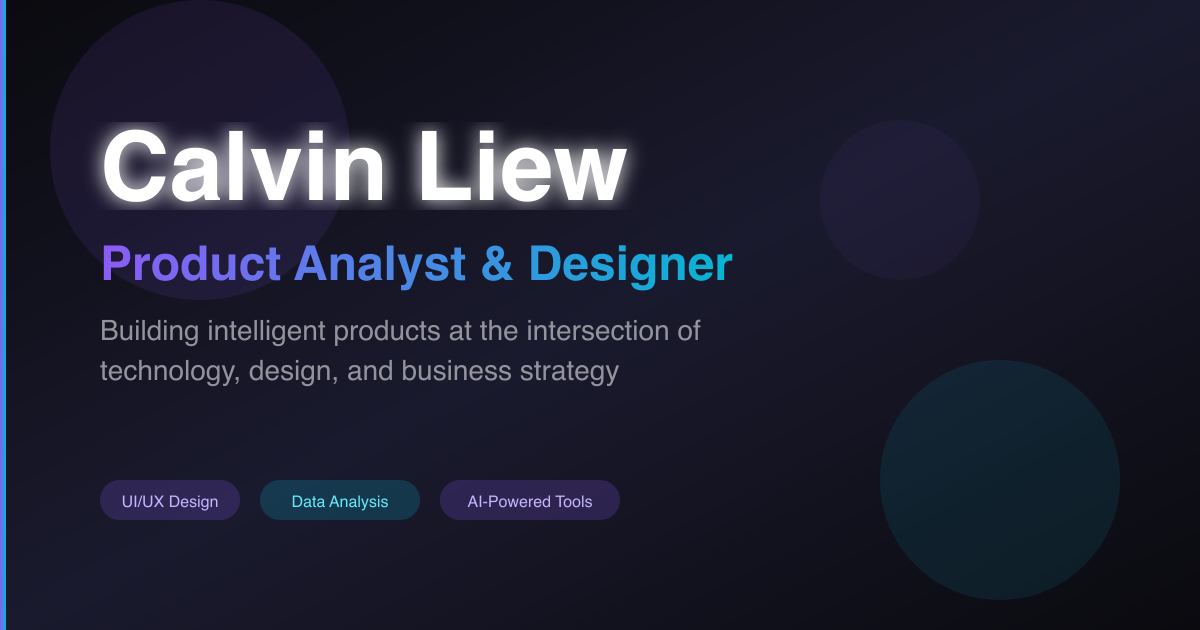
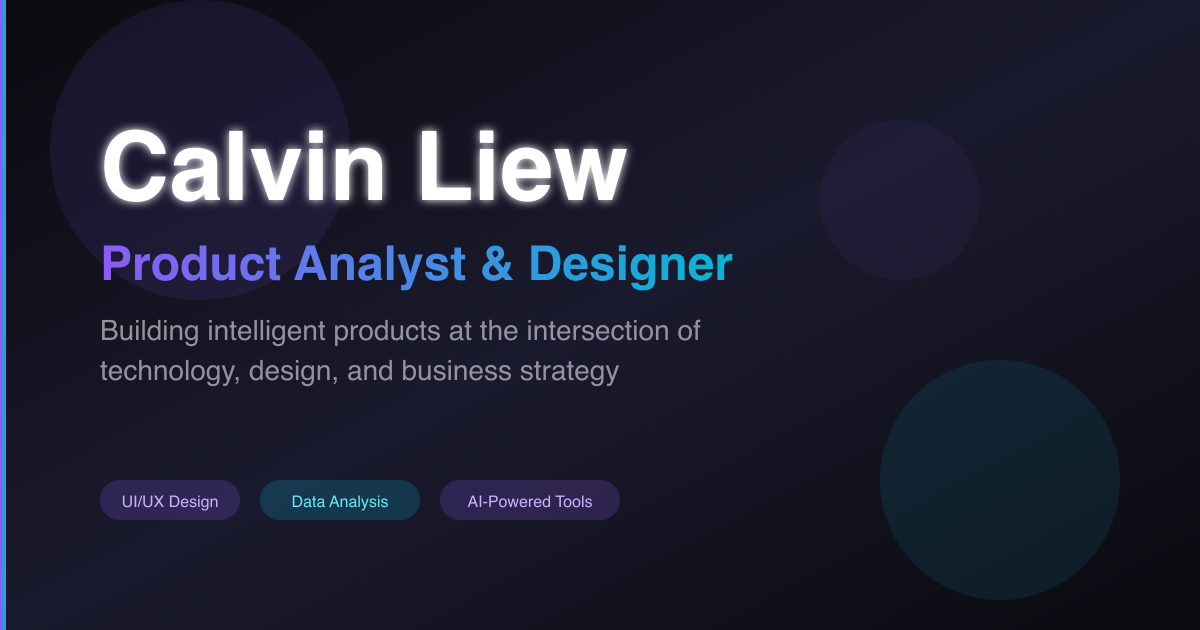
Tone down white glow effect on Calvin Liew text
- Hero: Reduced glow from 20px/0.8 opacity to 10px/0.5 opacity
- OG Image SVG: Reduced blur from stdDeviation="10" to stdDeviation="5"
- Regenerated og-image.png with subtler glow effect
- More refined, professional appearance while maintaining visibility

🤖 Generated with Claude Code

Changed region(s): [[0.0617, 0.181, 0.5242, 0.3317]]

diff --git a/src/components/sections/Hero.tsx b/src/components/sections/Hero.tsx
@@ -38,7 +38,7 @@ export default function Hero() {
         <div className="max-w-4xl mx-auto text-center">
           {/* Greeting + Name */}
           <h1 className="text-6xl sm:text-7xl lg:text-8xl font-bold mb-6 leading-none tracking-tight animate-fade-in-up">
-            Hey, I'm <span className="text-white drop-shadow-[0_0_20px_rgba(255,255,255,0.8)]">Calvin Liew</span>.
+            Hey, I'm <span className="text-white drop-shadow-[0_0_10px_rgba(255,255,255,0.5)]">Calvin Liew</span>.
           </h1>
 
           {/* Engaging description */}
